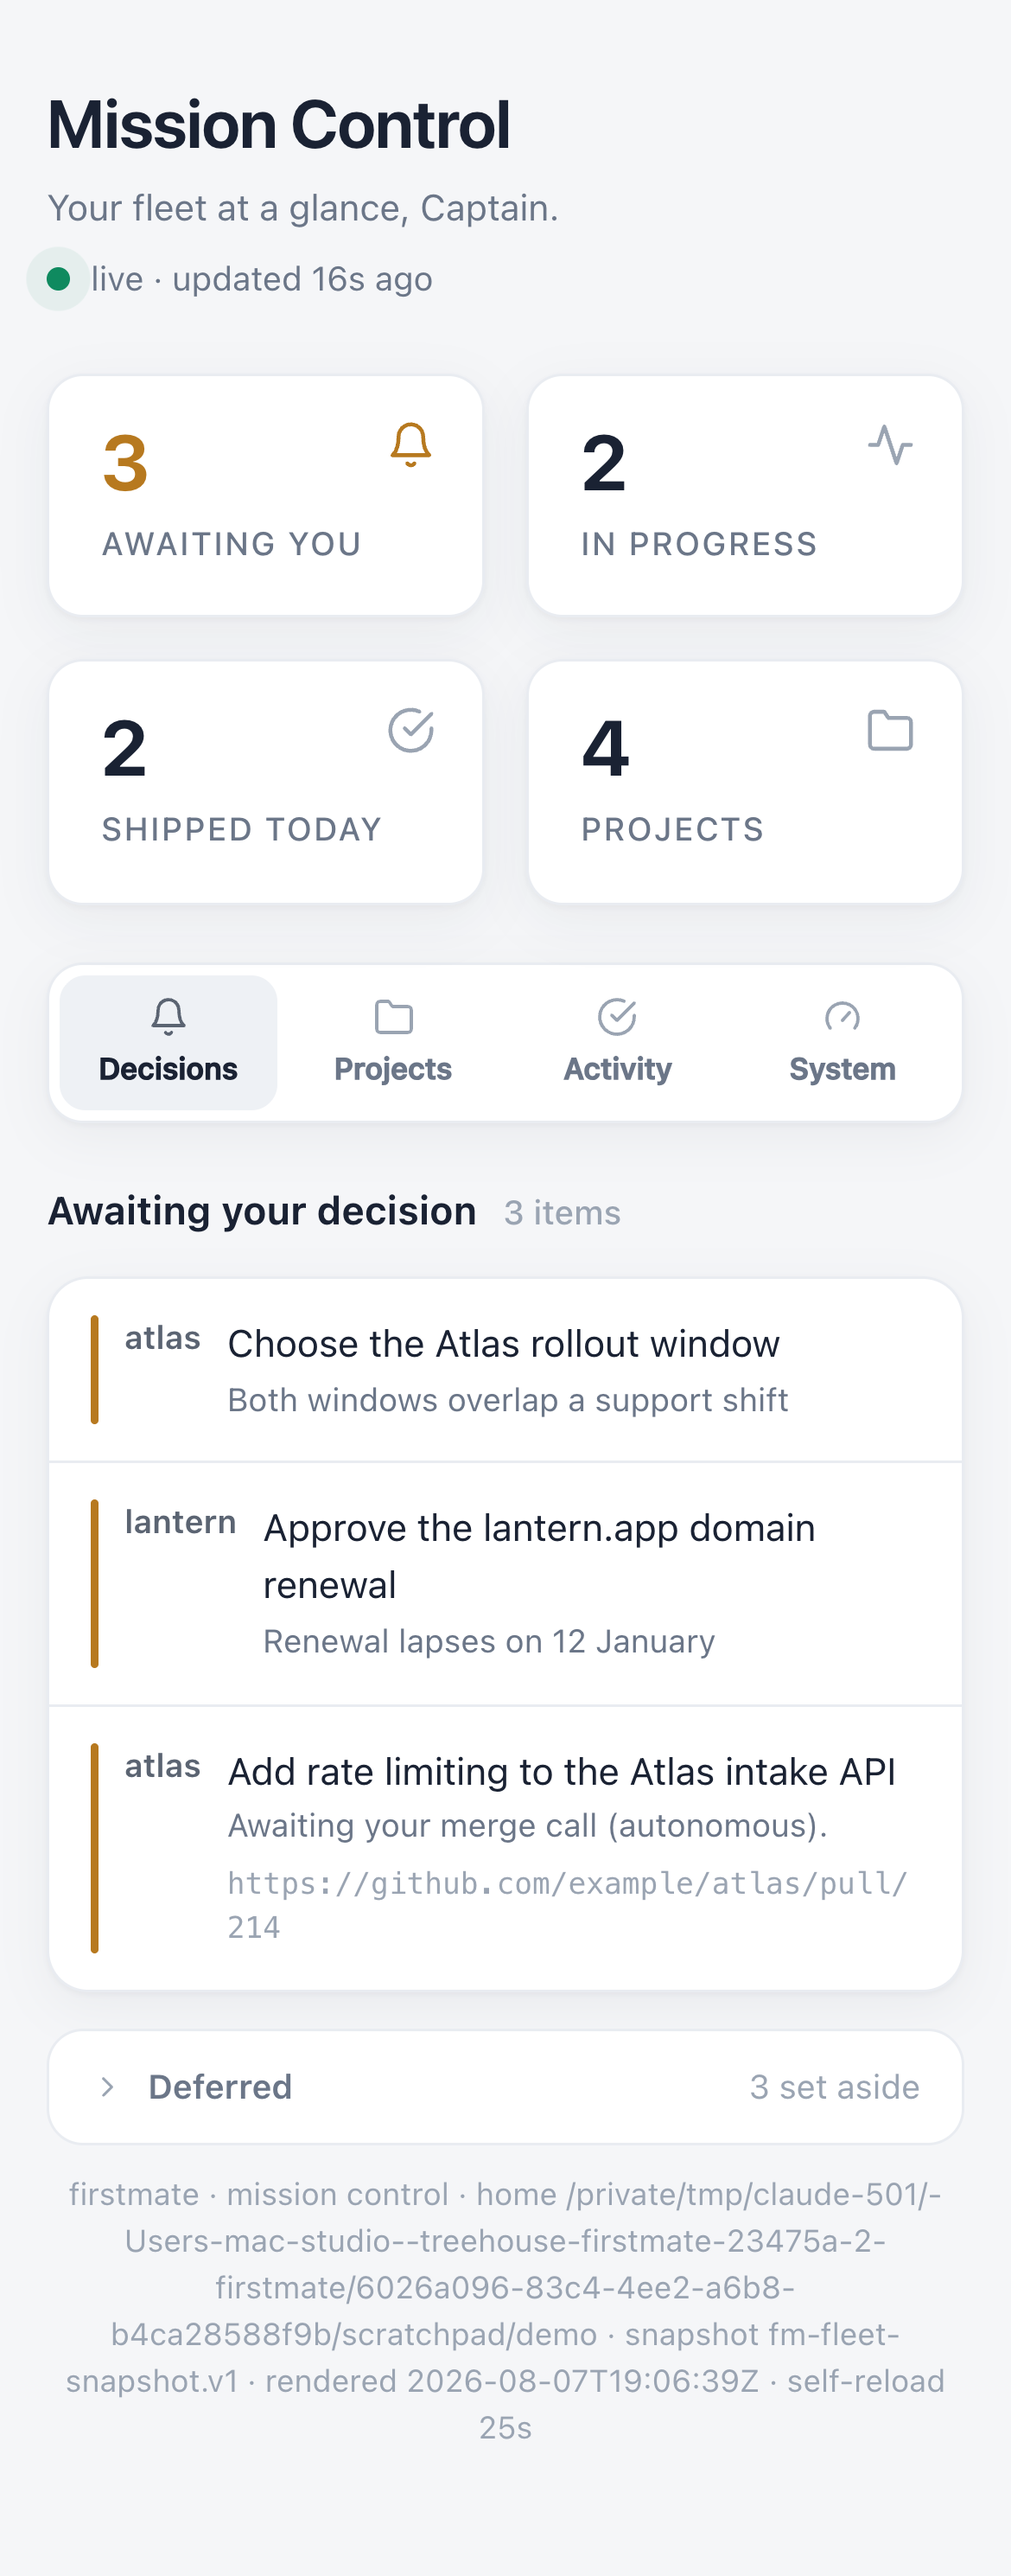
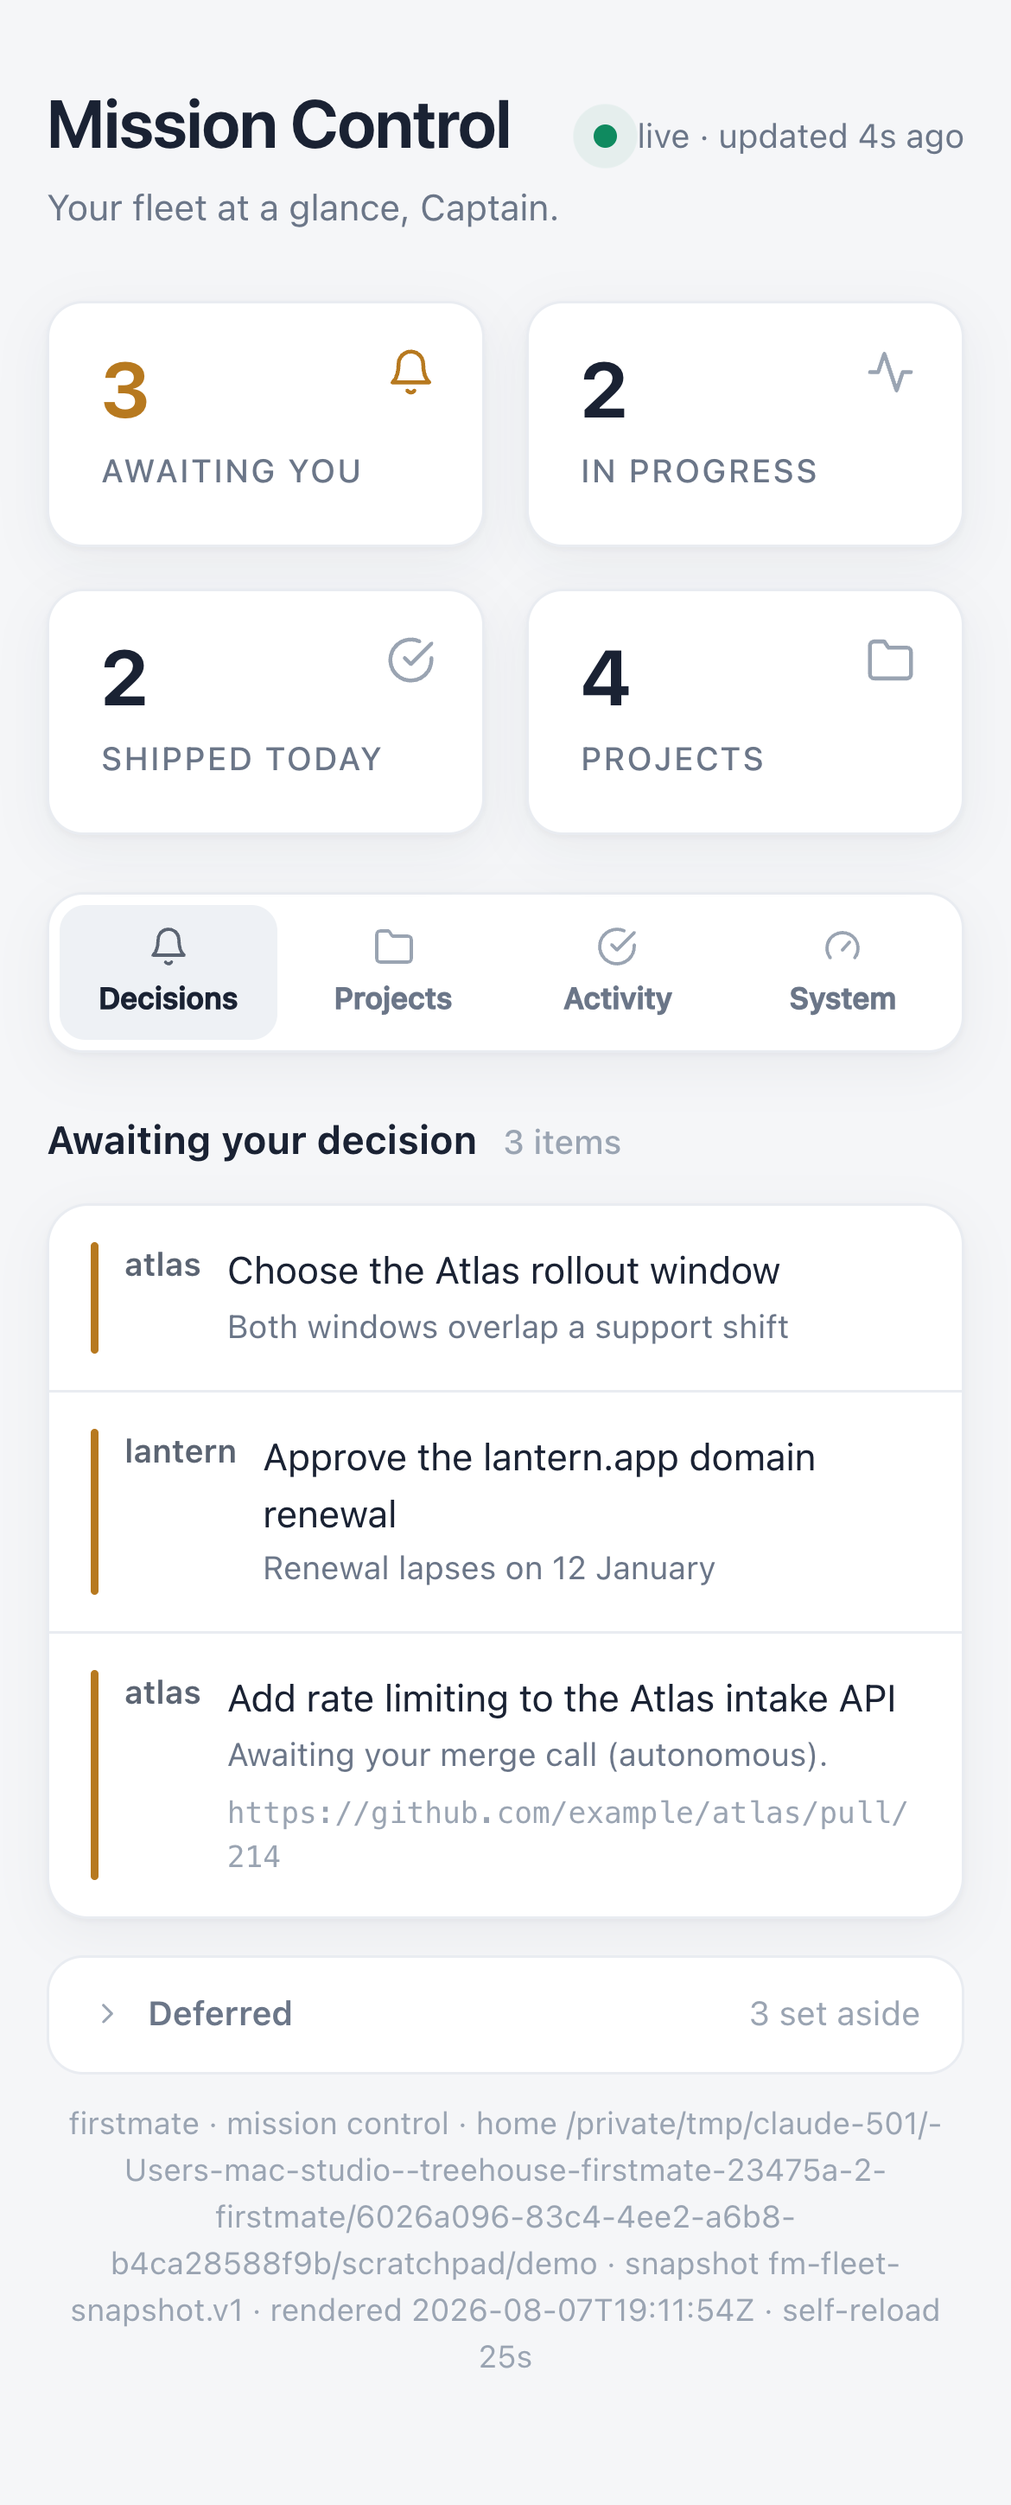
fix(bin): keep an opened deferred shelf open across the board's reload
An opened shelf snapped shut on the next self-reload, which is the same
jarring reset the tabs were built to avoid, in a smaller place. It is now
remembered the same way: closed for a captain who never opens it, open for
one who does, and closed again once they close it. Verified in Chrome
across real reload cycles in both directions.

Also check the escaped closing-tag payload directly in the escaping test,
so a breakout is caught by the payload itself rather than only by the count
of scripts on the page.

diff --git a/docs/mission-control.md b/docs/mission-control.md
@@ -56,6 +56,9 @@ The self-reload navigates without the URL fragment, so a fragment cannot be what
 A `#tab=<name>` fragment still selects a tab on the first load, which is what a hand-typed or copied link uses.
 A browser that refuses storage - a private context, or a restricted `file://` origin - simply opens on Decisions each time.
 
+The Deferred shelf is held to the same bar, because a shelf that snapped shut every 25 seconds would be the same jarring reset in a smaller place.
+It is closed for a captain who never opens it, stays open for one who does, and stays closed again once they close it.
+
 ## Deferring a decision
 
 Setting a decision aside is not a control on the board, which stays read-only.
